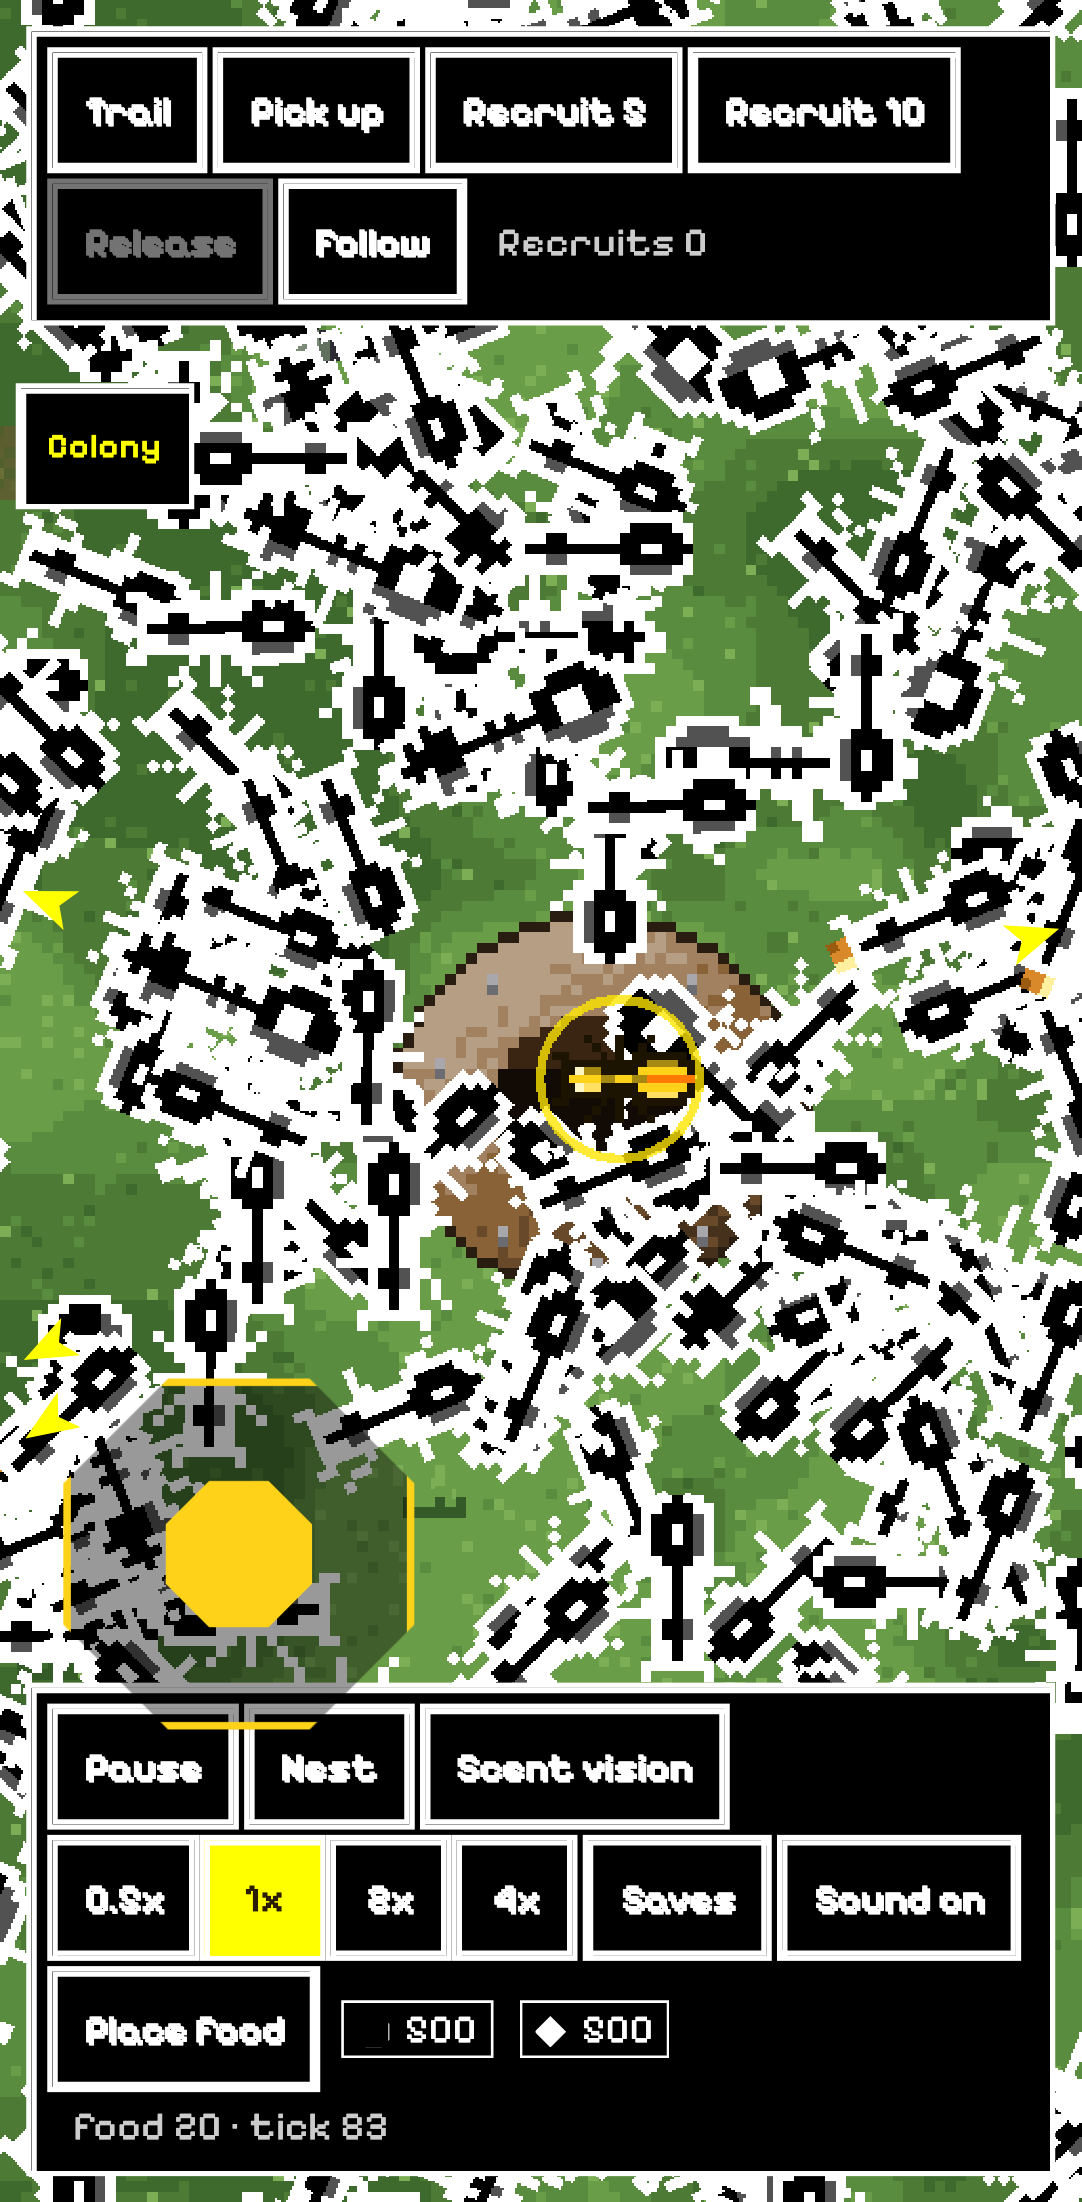
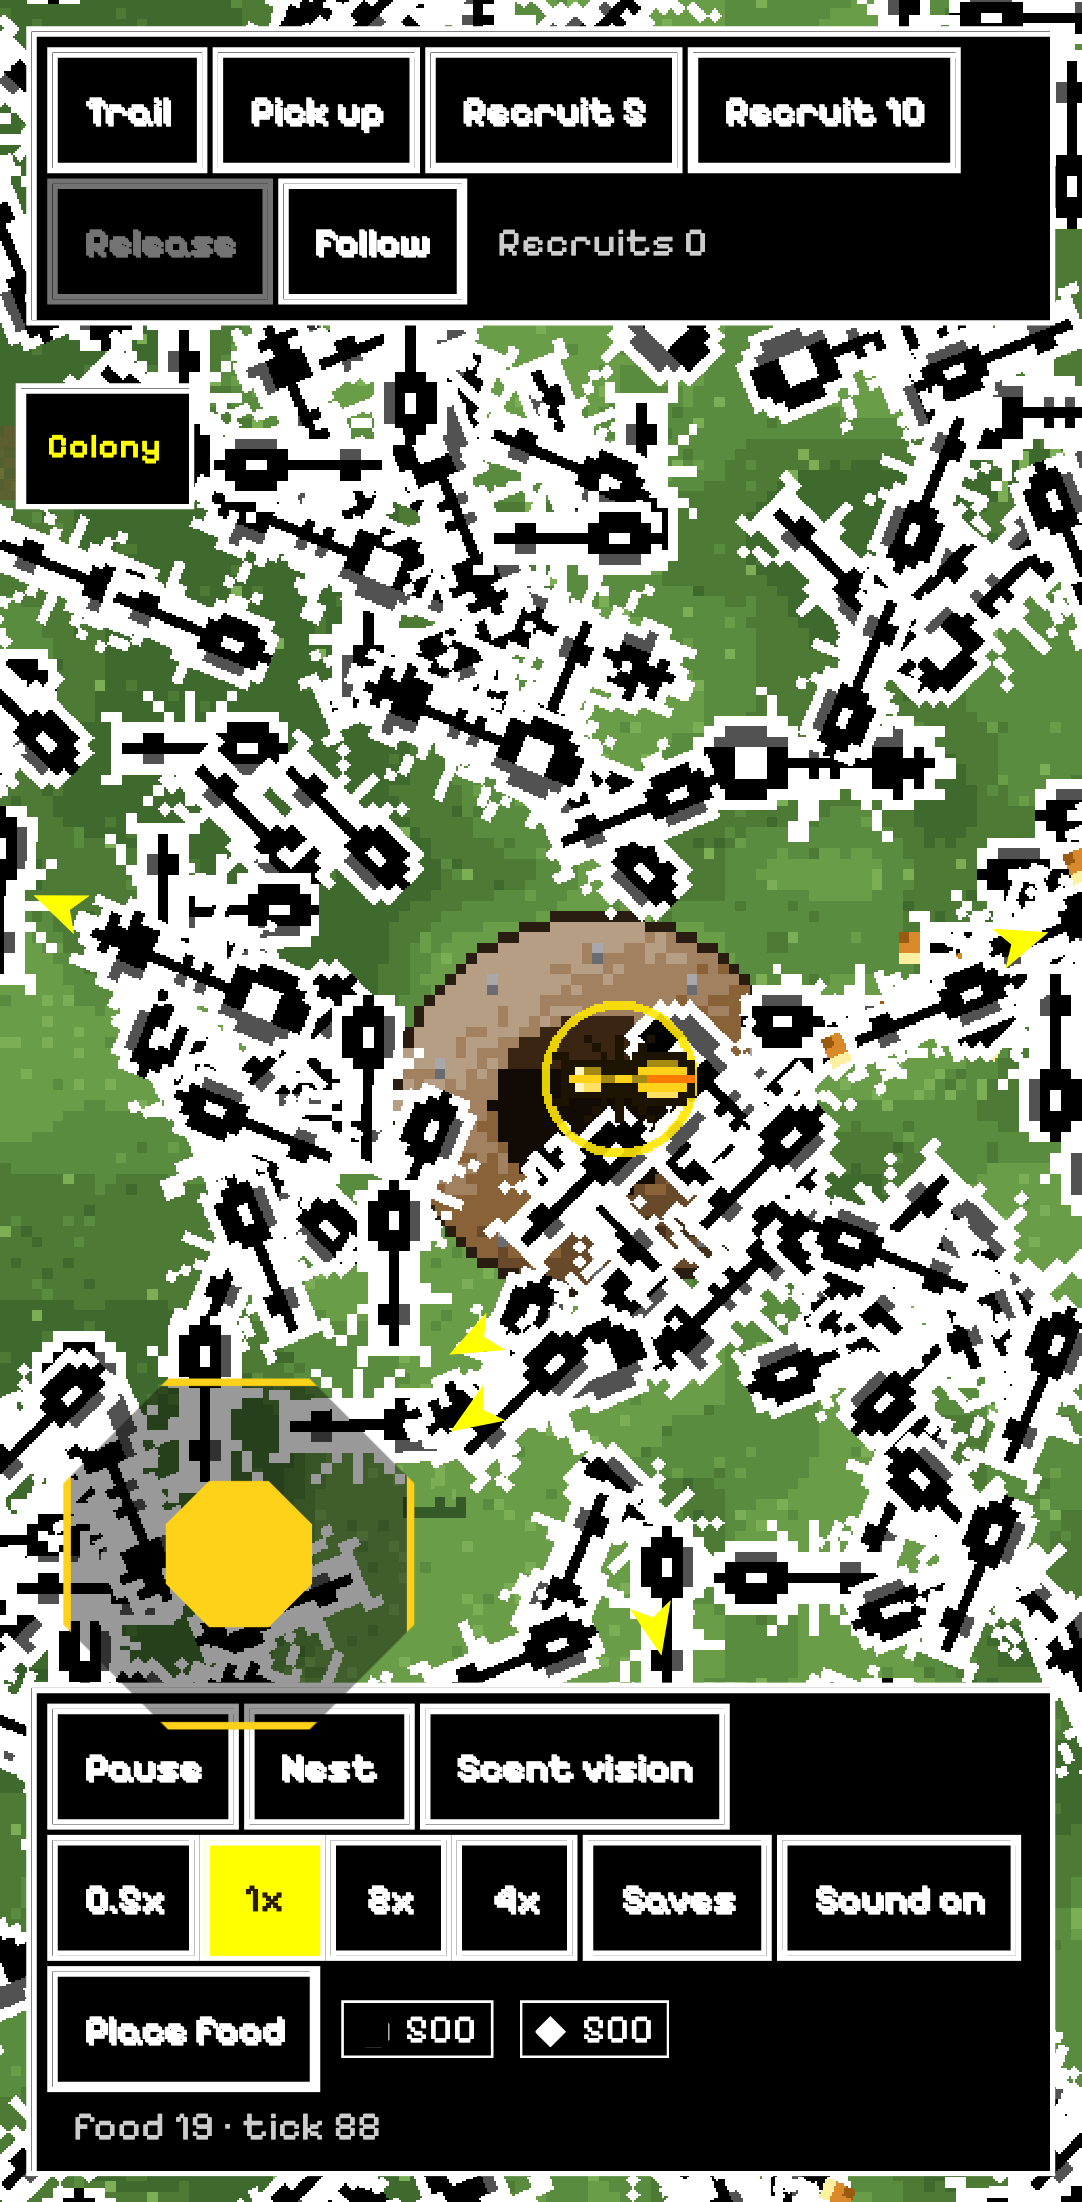
fix(art): keep food arrows inside the HUD, mark the yard edge, refresh screenshots

diff --git a/apps/web/src/foodArrows.ts b/apps/web/src/foodArrows.ts
@@ -2,8 +2,8 @@
 export const PICKUP_REACH = 14;
 
 const POOL = 5;
-/** Keep arrows clear of the HUD bars along the top and bottom edges. */
-const INSET = { x: 18, top: 84, bottom: 78 };
+/** Arrow half-size plus a margin, so an arrow never touches a bar or the screen edge. */
+const PAD = 22;
 
 /**
  * Small edge-of-screen arrows pointing at known food piles that are out of view but near it.
@@ -46,6 +46,7 @@ export class FoodArrows {
     const cx = size.w / 2;
     const cy = size.h / 2;
     const reach = Math.max(size.w, size.h) * 1.5;
+    const area = this.playArea(size);
     const found: { sx: number; sy: number; d: number }[] = [];
     for (const p of piles) {
       const sx = p.x * view.zoom + view.x;
@@ -64,12 +65,51 @@ export class FoodArrows {
       }
       const dx = f.sx - cx;
       const dy = f.sy - cy;
-      const hw = cx - INSET.x;
-      const hh = dy < 0 ? cy - INSET.top : cy - INSET.bottom;
+      const hw = dx < 0 ? cx - area.left : area.right - cx;
+      const hh = dy < 0 ? cy - area.top : area.bottom - cy;
       const t = Math.min(hw / Math.max(1e-6, Math.abs(dx)), hh / Math.max(1e-6, Math.abs(dy)));
+      let x = cx + dx * t;
+      const y = cy + dy * t;
+      // On phones the joystick floats over the left edge: slide arrows out from under it.
+      const j = area.joystick;
+      if (j && x < j.right && y > j.top && y < j.bottom) x = j.right;
       a.hidden = false;
-      a.style.transform = `translate(${cx + dx * t}px, ${cy + dy * t}px) rotate(${Math.atan2(dy, dx)}rad)`;
+      a.style.transform = `translate(${x}px, ${y}px) rotate(${Math.atan2(dy, dx)}rad)`;
     }
+  }
+
+  /**
+   * The part of the viewport not covered by the HUD bars (measured, so it follows the UI scale,
+   * safe-area insets, wrapped bars on phones and orientation), the arrow's own margin inside it.
+   */
+  private playArea(size: { w: number; h: number }): {
+    left: number;
+    right: number;
+    top: number;
+    bottom: number;
+    joystick: { right: number; top: number; bottom: number } | null;
+  } {
+    const box = (sel: string): DOMRect | null => {
+      const el = document.querySelector(sel);
+      if (!el || el.getClientRects().length === 0) return null;
+      return el.getBoundingClientRect();
+    };
+    const top = box('#player-hud .bar');
+    const bottom = box('#hud .bar');
+    const stick = box('#joystick');
+    // The root pads itself by the safe-area insets (see style.css), so read them back resolved.
+    const pad = getComputedStyle(this.root);
+    const edge = (side: 'Top' | 'Right' | 'Bottom' | 'Left'): number =>
+      parseFloat(pad[`padding${side}`]) || 0;
+    return {
+      left: PAD + edge('Left'),
+      right: size.w - PAD - edge('Right'),
+      top: Math.max(PAD + edge('Top'), top ? top.bottom + PAD : 0),
+      bottom: Math.min(size.h - PAD - edge('Bottom'), bottom ? bottom.top - PAD : size.h),
+      joystick: stick
+        ? { right: stick.right + PAD, top: stick.top - PAD, bottom: stick.bottom + PAD }
+        : null,
+    };
   }
 
   private hide(from: number): void {

diff --git a/apps/web/src/art/ground.ts b/apps/web/src/art/ground.ts
@@ -1,4 +1,4 @@
-import { Container, Sprite, Texture } from 'pixi.js';
+import { Container, Graphics, Sprite, Texture } from 'pixi.js';
 import type { Art } from './index';
 import { T } from './palette';
 import { hash2, rng } from './pixels';
@@ -82,6 +82,19 @@ export class GroundLayer {
       }
     }
     this.view.addChild(lawn);
+    // The yard's boundary: a dark hedge-green verge outside it and a bright lip on the edge, so the
+    // end of the world reads as a fence line rather than a flat, untextured canvas.
+    const big = worldSize + 32768;
+    const verge = new Graphics()
+      .rect(-16384, -16384, big, big)
+      .fill(0x24421e)
+      .rect(0, 0, worldSize, worldSize)
+      .cut()
+      .rect(-6, -6, worldSize + 12, worldSize + 12)
+      .fill(0x16280f)
+      .rect(0, 0, worldSize, worldSize)
+      .cut();
+    this.view.addChild(verge);
     const d = art.decor;
     const rand = rng(seed ^ 0x51ed);
     const decor = new Container();

diff --git a/apps/web/src/style.css b/apps/web/src/style.css
@@ -253,6 +253,7 @@ body.in-nest #joystick {
   inset: 0;
   overflow: hidden;
   pointer-events: none;
+  padding: var(--sat) var(--sar) var(--sab) var(--sal);
 }
 .food-arrow {
   position: absolute;
